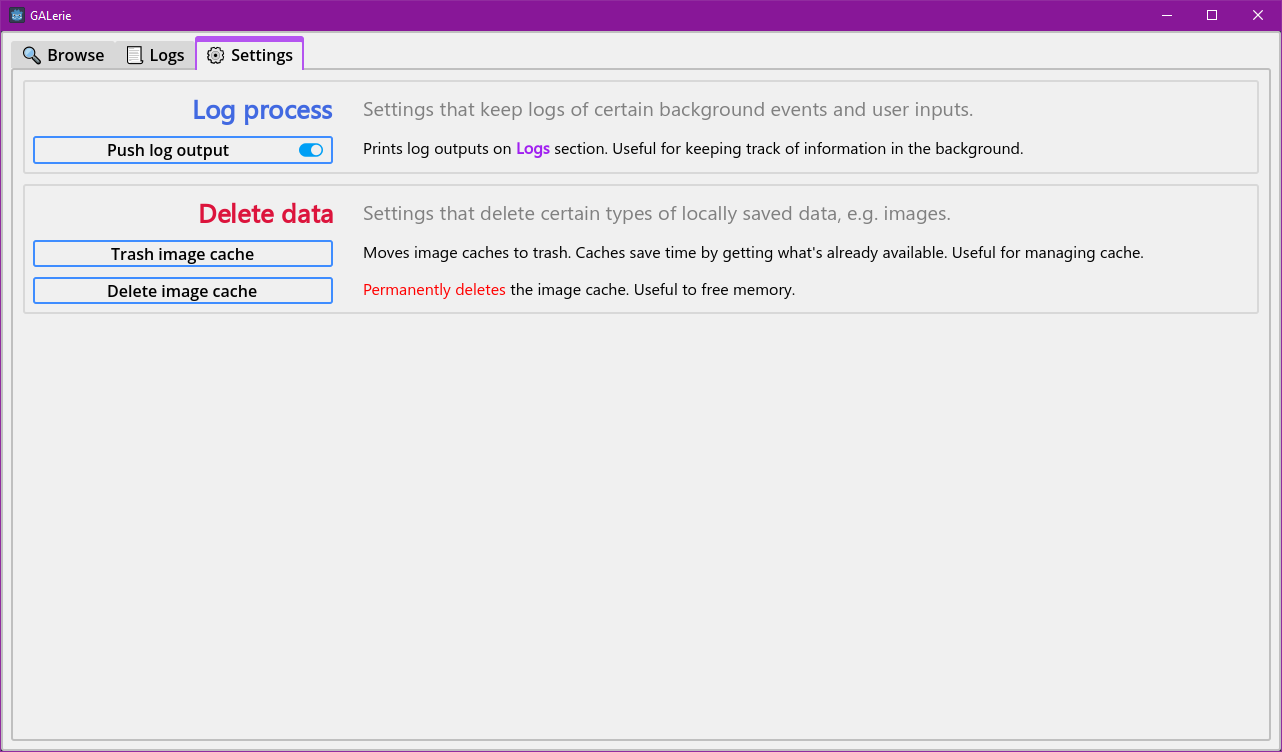
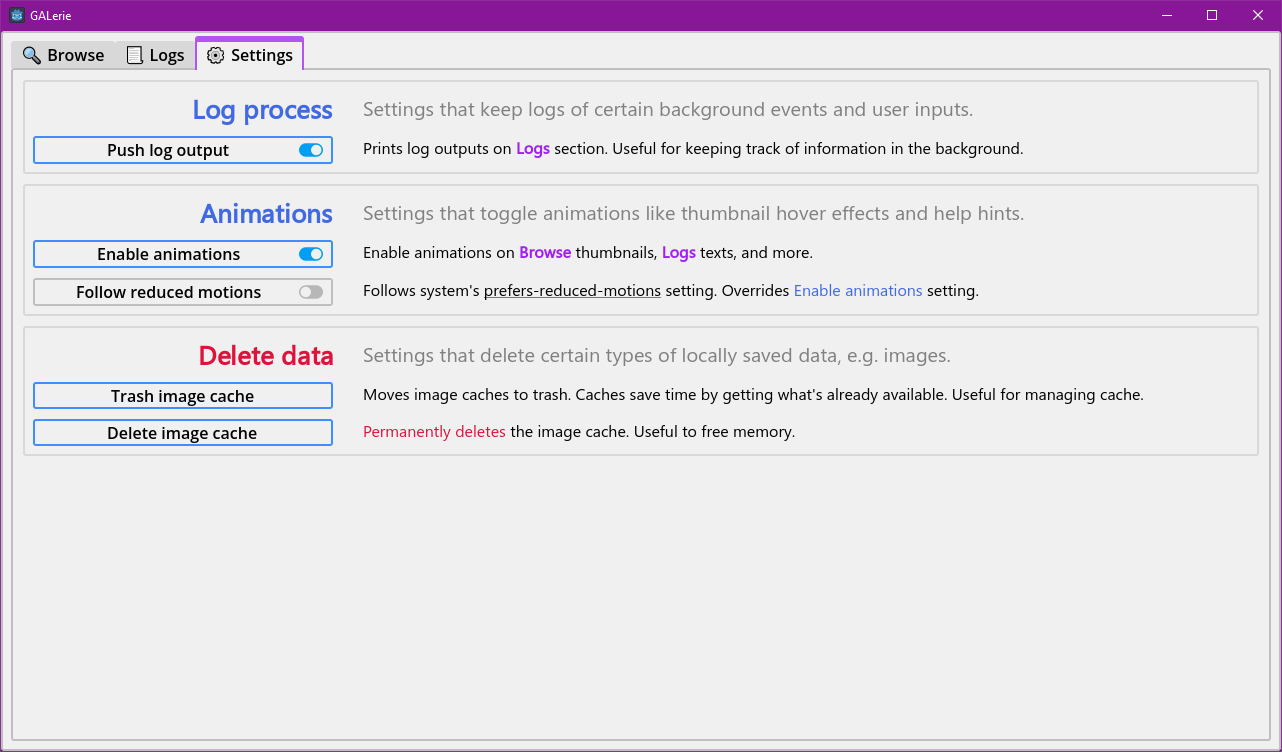
Added Animations settings, added prefers-reduced-motion accessibility, added virtual functions for RichTextEffects custom_effects so their animations can be toggled on and off, updated default theme resource, updated settings screenshot, updated README

diff --git a/README.md b/README.md
@@ -25,7 +25,12 @@ There's a `Logs` section where it keeps track of some things in the background. 
 - [x] Settings - shows the parameters that can be changed to affect some program functions and data.
 - [x] Cache - the saved texture resources in memory are skipped from requests, so thumbnails load instantly.
 - [x] Animations - hover effects on thumbnails, tooltips pop in/out, custom effects on `Logs`.
+- [x] Accessibility - settings that allow most people to use the program with ease.
 - [x] Rate limit - mainly for testing purposes, but can also be applied on export. (see [Testing](#testing))
+
+### Accessibility
+
+- Reduced motions - better known as *prefers-reduced-motion*, follows system's settings if animations are enabled or not. It overrides the `Enable animations` setting.
 
 ## Process
 